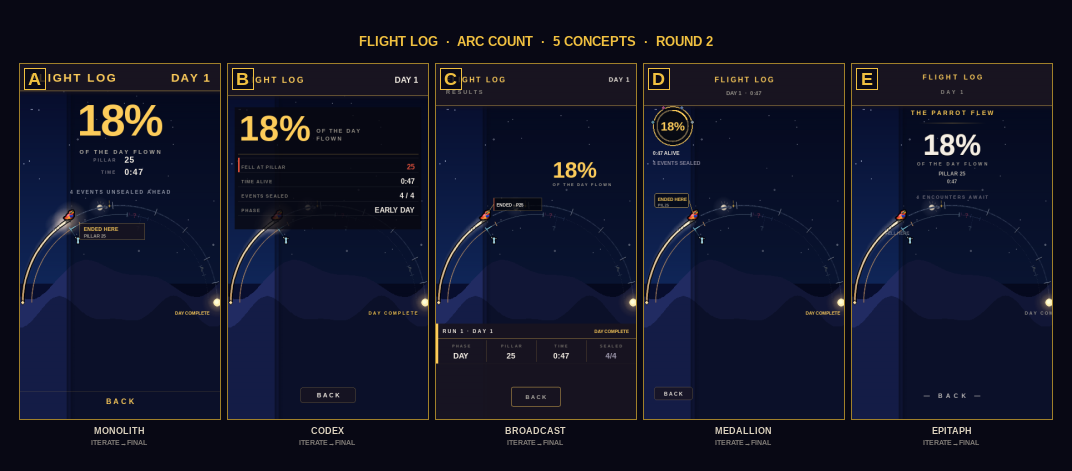
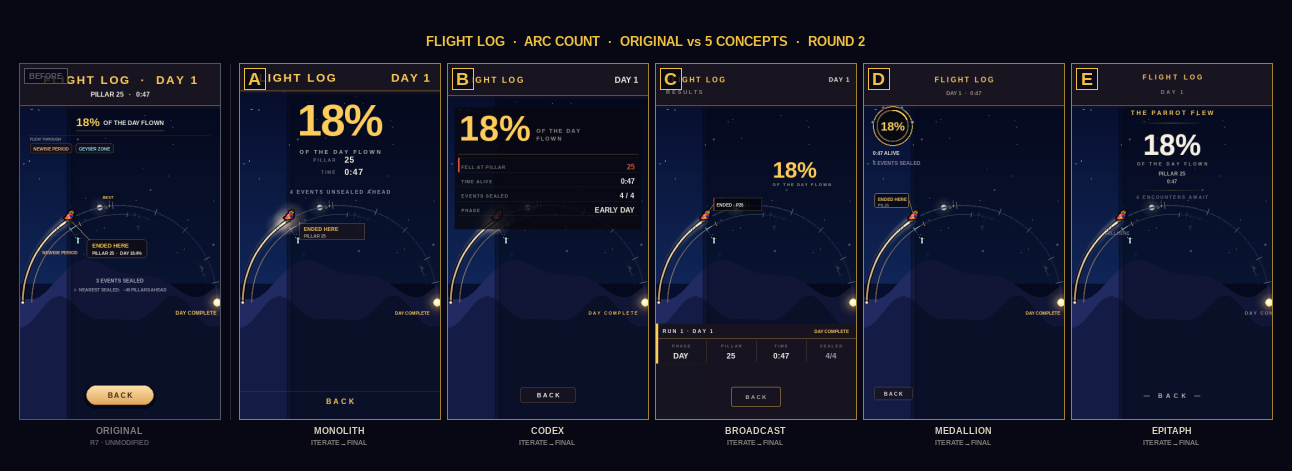
arc_count: showcase — add BEFORE panel (original r7) alongside 5 concepts

diff --git a/tools/build_flight_log_arc_count_showcase.py b/tools/build_flight_log_arc_count_showcase.py
@@ -1,4 +1,4 @@
-"""Build docs/flight_log_arc_v2/arc_count/showcase.png — 5 concept round-2 panels side by side."""
+"""Build docs/flight_log_arc_v2/arc_count/showcase.png — BEFORE + 5 concept round-2 panels."""
 import os
 
 os.environ["SDL_VIDEODRIVER"] = "dummy"
@@ -14,43 +14,85 @@ ROOT = os.path.dirname(os.path.dirname(os.path.abspath(__file__)))
 FONT_PATH = os.path.join(ROOT, "game", "assets", "LiberationSans-Bold.ttf")
 FEATURE_DIR = os.path.join(ROOT, "docs", "flight_log_arc_v2", "arc_count")
 
-BG       = (8, 8, 20)
-GOLD     = (240, 192, 64)
-GOLD_DIM = (160, 128, 42)
-TEXT     = (220, 210, 190)
-DIM_TEXT = (130, 125, 120)
+BG        = (8, 8, 20)
+GOLD      = (240, 192, 64)
+GOLD_DIM  = (160, 128, 42)
+SLATE_DIM = (80, 84, 100)
+TEXT      = (220, 210, 190)
+DIM_TEXT  = (130, 125, 120)
 
 PANEL_W  = 200
 PANEL_H  = 355
 GAP      = 8
+BEFORE_GAP = 20   # wider gap separating BEFORE from concepts
 MARGIN   = 20
 HEADER_H = 44
 FOOTER_H = 32
 
-SLUGS   = ["monolith", "codex", "broadcast", "medallion", "epitaph"]
-LABELS  = ["A", "B", "C", "D", "E"]
+CONCEPTS = ["monolith", "codex", "broadcast", "medallion", "epitaph"]
+LABELS   = ["A", "B", "C", "D", "E"]
 VERDICTS = ["ITERATE→FINAL"] * 5
 
-N = len(SLUGS)
-CANVAS_W = MARGIN + N * PANEL_W + (N - 1) * GAP + MARGIN
+N_TOTAL  = 1 + len(CONCEPTS)
+CANVAS_W = (MARGIN + PANEL_W + BEFORE_GAP
+            + len(CONCEPTS) * PANEL_W + (len(CONCEPTS) - 1) * GAP + MARGIN)
 CANVAS_H = MARGIN + HEADER_H + PANEL_H + FOOTER_H + MARGIN
 
 surf = pygame.Surface((CANVAS_W, CANVAS_H))
 surf.fill(BG)
 
-font_hdr = pygame.font.Font(FONT_PATH, 13)
-font_lbl = pygame.font.Font(FONT_PATH, 9)
-font_sub = pygame.font.Font(FONT_PATH, 7)
-font_id  = pygame.font.Font(FONT_PATH, 18)
+font_hdr  = pygame.font.Font(FONT_PATH, 13)
+font_lbl  = pygame.font.Font(FONT_PATH, 9)
+font_sub  = pygame.font.Font(FONT_PATH, 7)
+font_id   = pygame.font.Font(FONT_PATH, 18)
+font_bef  = pygame.font.Font(FONT_PATH, 8)
 
 # Header
-hdr = font_hdr.render("FLIGHT LOG  ·  ARC COUNT  ·  5 CONCEPTS  ·  ROUND 2", True, GOLD)
+hdr = font_hdr.render(
+    "FLIGHT LOG  ·  ARC COUNT  ·  ORIGINAL vs 5 CONCEPTS  ·  ROUND 2", True, GOLD)
 surf.blit(hdr, ((CANVAS_W - hdr.get_width()) // 2,
                 MARGIN + (HEADER_H - hdr.get_height()) // 2))
 
-for i, (slug, label, verdict) in enumerate(zip(SLUGS, LABELS, VERDICTS)):
-    px = MARGIN + i * (PANEL_W + GAP)
-    py = MARGIN + HEADER_H
+py = MARGIN + HEADER_H
+
+# --- BEFORE panel ---
+bx = MARGIN
+by = py
+bfy = by + PANEL_H
+
+before_src = pygame.image.load(os.path.join(FEATURE_DIR, "round_7.png"))
+before_panel = pygame.transform.smoothscale(before_src, (PANEL_W, PANEL_H))
+surf.blit(before_panel, (bx, by))
+# Muted slate border to distinguish it from concept panels
+pygame.draw.rect(surf, SLATE_DIM, (bx - 1, by - 1, PANEL_W + 2, PANEL_H + 2), 1)
+
+# "BEFORE" chip
+CHIP_W, CHIP_H = 44, 16
+cxb, cyb = bx + 4, by + 4
+chip_bg = pygame.Surface((CHIP_W, CHIP_H), pygame.SRCALPHA)
+chip_bg.fill((8, 8, 20, 200))
+surf.blit(chip_bg, (cxb, cyb))
+pygame.draw.rect(surf, SLATE_DIM, (cxb, cyb, CHIP_W, CHIP_H), 1)
+bef_s = font_bef.render("BEFORE", True, SLATE_DIM)
+surf.blit(bef_s, (cxb + (CHIP_W - bef_s.get_width()) // 2,
+                  cyb + (CHIP_H - bef_s.get_height()) // 2))
+
+# Footer
+lbl_top = font_lbl.render("ORIGINAL", True, DIM_TEXT)
+lbl_bot = font_sub.render("R7 · UNMODIFIED", True, (90, 88, 100))
+surf.blit(lbl_top, (bx + (PANEL_W - lbl_top.get_width()) // 2, bfy + 6))
+surf.blit(lbl_bot, (bx + (PANEL_W - lbl_bot.get_width()) // 2,
+                    bfy + 6 + lbl_top.get_height() + 2))
+
+# Thin divider line between BEFORE and concepts
+div_x = bx + PANEL_W + BEFORE_GAP // 2
+pygame.draw.line(surf, (40, 42, 58), (div_x, py), (div_x, py + PANEL_H), 1)
+
+# --- Concept panels ---
+concepts_x0 = MARGIN + PANEL_W + BEFORE_GAP
+
+for i, (slug, label, verdict) in enumerate(zip(CONCEPTS, LABELS, VERDICTS)):
+    px = concepts_x0 + i * (PANEL_W + GAP)
     fy = py + PANEL_H
 
     src_path = os.path.join(FEATURE_DIR, slug, "round_2.png")
